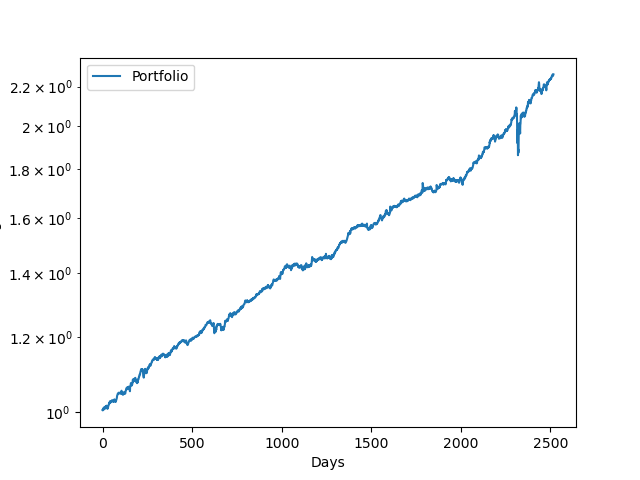
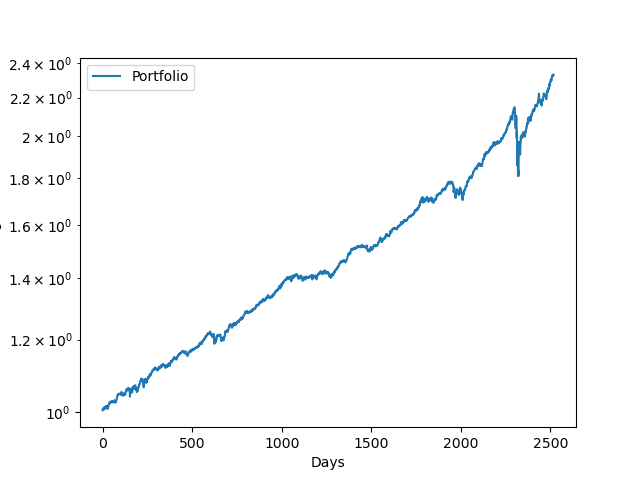
parameterized inputs

diff --git a/test.py b/test.py
@@ -79,25 +79,25 @@ class Model:
 
 
 # can change this, but must ALSO change get_data function
-labels = ["vti", "agg", "dbc", "vix"]
-N_ASSETS = len(labels)
+# labels = ["vti", "agg", "dbc", "vix"]
+N_ASSETS = 4  # len(labels)
 
 
-def get_data(startDate, endDate):
-    vti = yahooFinance.Ticker("VTI").history(
+def get_data(startDate, endDate, tickers):
+    s1 = yahooFinance.Ticker(tickers[0]).history(
         start=startDate, end=endDate).reset_index()
-    agg = yahooFinance.Ticker("AGG").history(
+    s2 = yahooFinance.Ticker(tickers[1]).history(
         start=startDate, end=endDate).reset_index()
-    dbc = yahooFinance.Ticker("DBC").history(
+    s3 = yahooFinance.Ticker(tickers[2]).history(
         start=startDate, end=endDate).reset_index()
-    vix = yahooFinance.Ticker("^VIX").history(
+    s4 = yahooFinance.Ticker(tickers[3]).history(
         start=startDate, end=endDate).reset_index()
     data = pd.DataFrame()
-    all_assets = [vti, agg, dbc, vix]
+    all_assets = [s1, s2, s3, s4]
 
     for i, asset in enumerate(all_assets):
         asset = asset.reset_index()
-        lb = labels[i]
+        lb = tickers[i].lower()
         data[lb] = asset['Close']
     return data
 
@@ -109,40 +109,66 @@ def prep_data_for_pred(data):
     return fit_predict_data
 
 
-money = 1
-window = 365  # days
+def backtest(tickers, startDate, epochs):
+    money = 1
+    window = 365  # days
 
-startDate = datetime.datetime(2010, 1, 1)
-endDate = startDate + datetime.timedelta(days=window)
+    endDate = startDate + datetime.timedelta(days=window)
+    data = get_data(startDate, endDate, tickers)
 
-data = get_data(startDate, endDate)
-model = Model()
-window = data.shape[0] - 1  # TRUE WINDOW AFTER GETTING JUST TRADING DAYS
-weights = model.get_allocations(data.iloc[:-1], epochs=100)
+    model = Model()
+    window = data.shape[0] - 1  # TRUE WINDOW AFTER GETTING JUST TRADING DAYS
+    weights = model.get_allocations(data.iloc[:-1], epochs=epochs)
 
-# how long we backtest for
-full_data = get_data(startDate, datetime.datetime(2021, 1, 1))
+    # how long we backtest for
+    full_data = get_data(startDate, datetime.datetime(2021, 1, 1), tickers)
 
-moneys = []
-for i in range(len(full_data) - window):
-    sub_data = full_data.iloc[i:i+window - 1]
-    sub_data = prep_data_for_pred(sub_data)
+    moneys = []
+    port_weights_time = []
+    for i in range(len(full_data) - window):
+        sub_data = full_data.iloc[i:i+window - 1]
+        sub_data = prep_data_for_pred(sub_data)
 
-    weights = model.model.predict(sub_data)[0]
-    returns = sub_data[0][-1] / sub_data[0][-2]
-    returns = returns[:N_ASSETS]
-    print(weights)
-    port_returns = weights@returns
-    if port_returns == port_returns:
-        money *= port_returns
-    startDate += datetime.timedelta(days=1)
-    endDate += datetime.timedelta(days=1)
-    print(i, money)
-    moneys.append(money)
+        weights = model.model.predict(sub_data)[0]
+        returns = sub_data[0][-1] / sub_data[0][-2]
+        returns = returns[:N_ASSETS]
+        print(weights)
+        port_returns = weights@returns
+        if port_returns == port_returns:
+            money *= port_returns
+        startDate += datetime.timedelta(days=1)
+        endDate += datetime.timedelta(days=1)
+        print(i, money)
+        moneys.append(money)
+        port_weights_time.append(weights)
 
-plt.plot(range(len(full_data) - window), moneys, label="Portfolio")
-plt.xlabel("Days")
-plt.yscale('log')
-plt.ylabel("Returns (Log scale)")
-plt.legend()
-plt.show()
+    plt.plot(range(len(full_data) - window), moneys, label="Portfolio")
+    plt.xlabel("Days")
+    plt.yscale('log')
+    plt.ylabel("Returns (Log scale)")
+    plt.legend()
+    plt.grid()
+    plt.show()
+
+    plt.figure()
+    # plot weights over time
+    port_weights_time = np.array(port_weights_time)
+    for i in range(port_weights_time.shape[1]):
+        plt.plot(port_weights_time[:, i], label=tickers[i])
+    plt.xlabel("Days")
+    plt.ylabel("Portfolio Weight")
+    plt.grid()
+    plt.legend()
+    plt.show()
+    return money, port_weights_time
+
+
+if __name__ == "__main__":
+    tickers1 = ["VTI", "AGG", "DBC", "^VIX"]
+    startDate = datetime.datetime(2010, 1, 1)
+    # port_returns, port_weights = backtest(tickers1, startDate, epochs=100)
+
+    # sugar, corn future, soybean future, wheat
+    tickers2 = ["SB=F", "KC=F", "SOYB", "WEAT"]
+    startDate = datetime.datetime(2013, 1, 1)
+    port_returns, port_weights = backtest(tickers2, startDate, epochs=1000)
